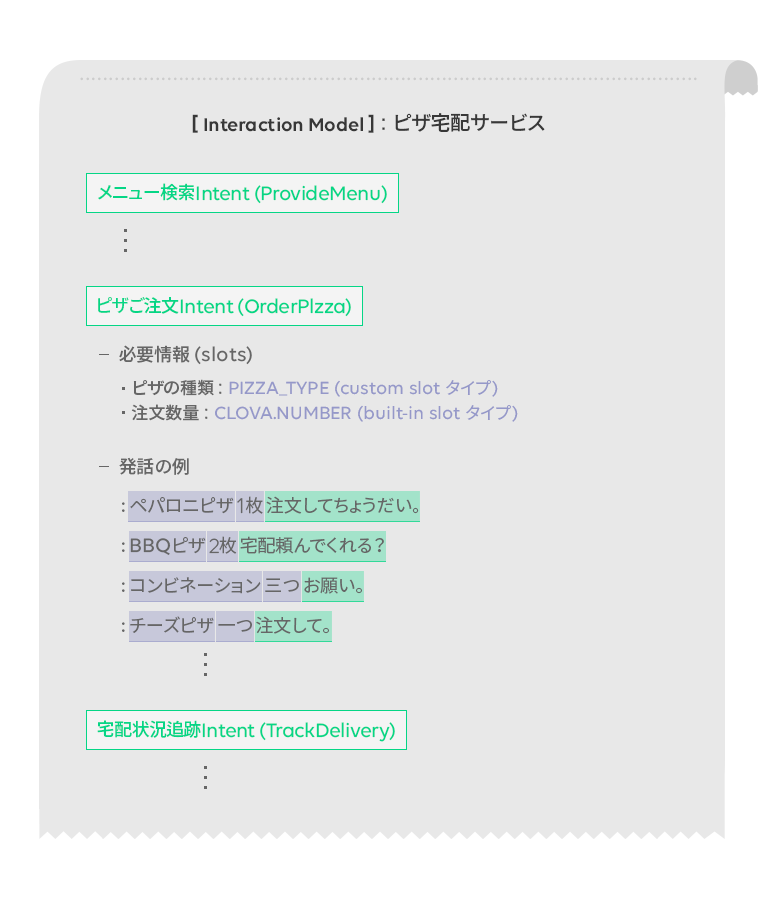
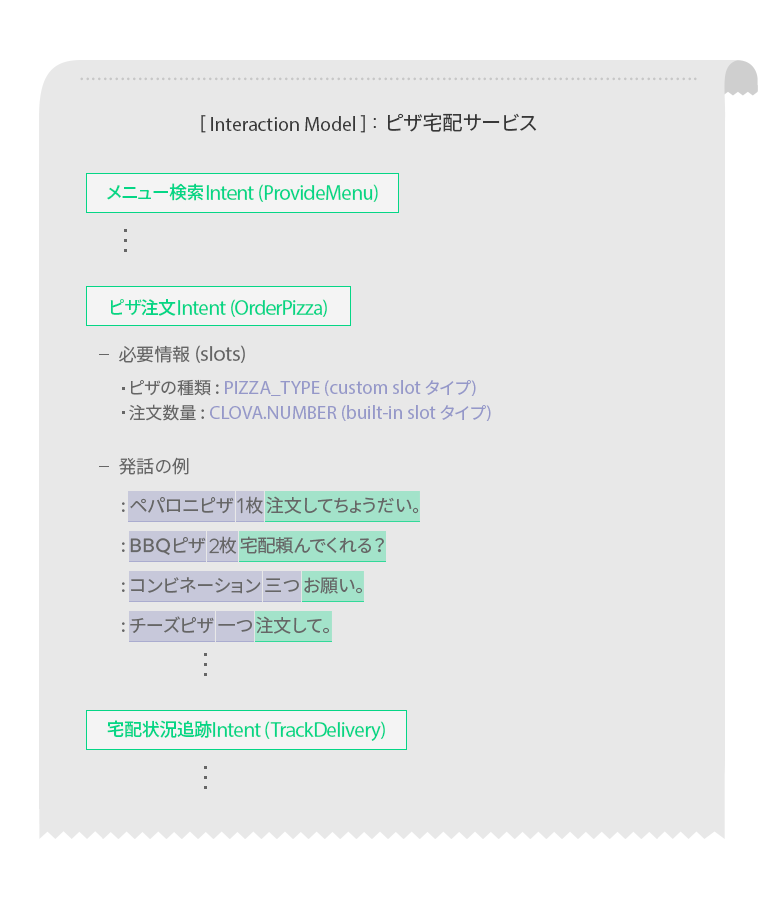
Modify menu label, replace image files (JP font issue).
- Modified menu label (スキル設定)
- Replaced image files (JP font issue, DevConsole Home)

Former-commit-id: 39ff00bce8975527e231addc9d94a70a103ded92 [formerly a0a45677686c9ec8e9c836de54006a8dd29525a8]
Former-commit-id: 91637de227a5c3dbeb461f170c852f9e622a36d8

diff --git a/ja/DevConsole/Guides/CEK/Using_CEK_Menu.md b/ja/DevConsole/Guides/CEK/Using_CEK_Menu.md
@@ -1,6 +1,6 @@
 # CEKメニューを使用する
 
-Clova Developer CenterのCEKメニューは、Extensionを登録および配布する際に使用されます。CEKメニューでExtensionを登録し、また、[CEK](/CEK/CEK_Overview.md#WhatisCEK)がClovaとExtensionの間で情報を交換するためのサーバー連携情報や、ユーザーリクエストを正しく解析するための対話モデルを定義します。**スキルを開発する** をクリックすると、CEKのメニューに入ります。
+Clova Developer CenterのCEKメニューは、Extensionを登録および配布する際に使用されます。CEKメニューでExtensionを登録し、また、[CEK](/CEK/CEK_Overview.md#WhatisCEK)がClovaとExtensionの間で情報を交換するためのサーバー連携情報や、ユーザーリクエストを正しく解析するための対話モデルを定義します。**スキル設定** または **スキルを開発する** をクリックすると、CEKのメニューに入ります。
 
 ![](/DevConsole/Resources/Images/DevConsole-Entering_CEK_Menu.png)
 

diff --git a/ja/DevConsole/Guides/CEK/Create_Channel.md b/ja/DevConsole/Guides/CEK/Create_Channel.md
@@ -14,7 +14,7 @@ Clova Developer Center βにログインします。
 2. 同意画面が表示されたら、**同意する** をクリックします（初回ログイン時のみ）。  
 ![](/DevConsole/Resources/Images/DevConsole-Access_Agreement.png)
 
-3. **スキルを開発する** をクリックします。  
+3. **スキル設定** または **スキルを開発する** をクリックします。  
 ![](/DevConsole/Resources/Images/DevConsole-DevConsole_Home.png)
 
 4. **LINE Developersに遷移してスキルを作成** をクリックします。  
